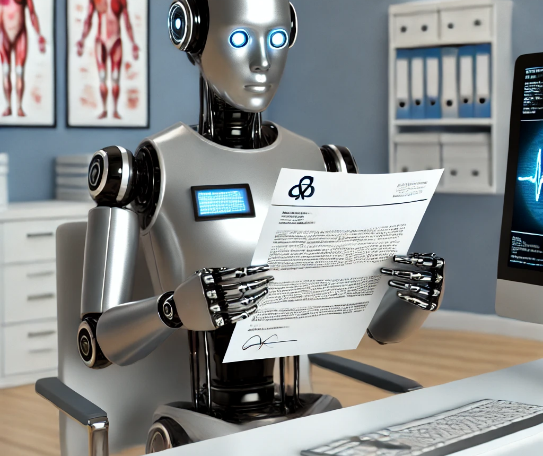
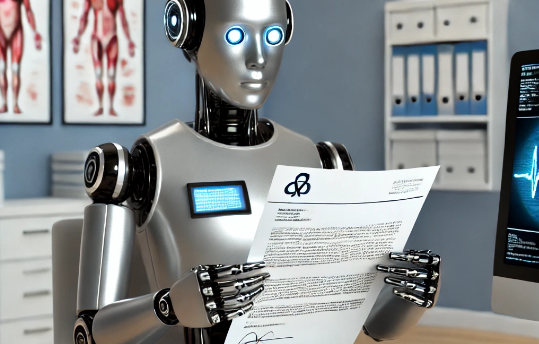
Fix use case images

diff --git a/postmaster.html b/postmaster.html
@@ -47,16 +47,18 @@
                 <div class="page-hero-content">
                     <span class="section-badge">Synapse Postmaster</span>
                     <h1>Turn Mails into<br><span class="gradient-text">Actionable Data</span></h1>
-                    <p class="hero-subtitle">Every time you receive an email, it costs you 1€+ just to route it to the right person. Synapse Postmaster is an AI-powered solution that bridges the gap between incoming communications and digital processes.</p>
+                    <p class="highlight-lead">Every time you receive an email, it costs you <strong>1€+</strong>...</p>
+                    <p class="highlight-emphasis">...just to route it to the right person.</p>
+                    <p class="hero-subtitle">Synapse Postmaster is an AI-powered solution that bridges the gap between incoming communications and digital processes.</p>
                     <a href="index.html#contact" class="btn btn-primary btn-large">Book a Demo</a>
                     <div class="hero-stats">
                         <div class="stat">
-                            <span class="stat-number">90%</span>
+                            <span class="stat-number">95%</span>
                             <span class="stat-label">Accuracy</span>
                         </div>
                         <div class="stat-divider"></div>
                         <div class="stat">
-                            <span class="stat-number">50%</span>
+                            <span class="stat-number">75%</span>
                             <span class="stat-label">Time Saved</span>
                         </div>
                         <div class="stat-divider"></div>
@@ -141,19 +143,35 @@
                 </div>
                 <div class="overview-content">
                     <h3>From Reading to Decision-Making</h3>
-                    <p class="lead">Postmaster doesn't just read documents - it understands context, applies business rules, and triggers the right actions automatically.</p>
-                    <div class="feature-list">
-                        <div class="feature-item">
-                            <svg width="24" height="24" viewBox="0 0 24 24" fill="none" stroke="currentColor" stroke-width="2"><polyline points="20 6 9 17 4 12"/></svg>
-                            <span>Risk policy evaluation</span>
+                    <p class="lead">Postmaster goes beyond simple document reading : it interprets context, applies business rules, and automatically initiates the right actions.</p>
+                    <div class="process-steps">
+                        <div class="process-step">
+                            <div class="step-header">
+                                <span class="step-number">1</span>
+                                <h4>Read</h4>
+                            </div>
+                            <p>Processes scanned images, PDFs, structured and unstructured documents, handwriting, tables, and even lengthy reports.</p>
                         </div>
-                        <div class="feature-item">
-                            <svg width="24" height="24" viewBox="0 0 24 24" fill="none" stroke="currentColor" stroke-width="2"><polyline points="20 6 9 17 4 12"/></svg>
-                            <span>Fraud detection alerts</span>
+                        <div class="process-step">
+                            <div class="step-header">
+                                <span class="step-number">2</span>
+                                <h4>Understand</h4>
+                            </div>
+                            <p>Uses AI to interpret meaning, summarize content, classify document types, extract key information from unstructured text, and correct inconsistencies.</p>
                         </div>
-                        <div class="feature-item">
-                            <svg width="24" height="24" viewBox="0 0 24 24" fill="none" stroke="currentColor" stroke-width="2"><polyline points="20 6 9 17 4 12"/></svg>
-                            <span>Workflow initiation</span>
+                        <div class="process-step">
+                            <div class="step-header">
+                                <span class="step-number">3</span>
+                                <h4>Gather Context</h4>
+                            </div>
+                            <p>Enhances understanding by connecting to back-office systems, CRMs, and ERPs to retrieve additional details such as customer or contract information and calculate routing.</p>
+                        </div>
+                        <div class="process-step">
+                            <div class="step-header">
+                                <span class="step-number">4</span>
+                                <h4>Make decision</h4>
+                            </div>
+                            <p>Determines the correct action to take and initiates it automatically.</p>
                         </div>
                     </div>
                 </div>
@@ -174,7 +192,7 @@
                     <div class="tech-icon">
                         <svg width="48" height="48" viewBox="0 0 24 24" fill="none" stroke="currentColor" stroke-width="1.5"><circle cx="12" cy="12" r="3"/><path d="M19.4 15a1.65 1.65 0 0 0 .33 1.82l.06.06a2 2 0 0 1 0 2.83 2 2 0 0 1-2.83 0l-.06-.06a1.65 1.65 0 0 0-1.82-.33 1.65 1.65 0 0 0-1 1.51V21a2 2 0 0 1-2 2 2 2 0 0 1-2-2v-.09A1.65 1.65 0 0 0 9 19.4a1.65 1.65 0 0 0-1.82.33l-.06.06a2 2 0 0 1-2.83 0 2 2 0 0 1 0-2.83l.06-.06a1.65 1.65 0 0 0 .33-1.82 1.65 1.65 0 0 0-1.51-1H3a2 2 0 0 1-2-2 2 2 0 0 1 2-2h.09A1.65 1.65 0 0 0 4.6 9a1.65 1.65 0 0 0-.33-1.82l-.06-.06a2 2 0 0 1 0-2.83 2 2 0 0 1 2.83 0l.06.06a1.65 1.65 0 0 0 1.82.33H9a1.65 1.65 0 0 0 1-1.51V3a2 2 0 0 1 2-2 2 2 0 0 1 2 2v.09a1.65 1.65 0 0 0 1 1.51 1.65 1.65 0 0 0 1.82-.33l.06-.06a2 2 0 0 1 2.83 0 2 2 0 0 1 0 2.83l-.06.06a1.65 1.65 0 0 0-.33 1.82V9a1.65 1.65 0 0 0 1.51 1H21a2 2 0 0 1 2 2 2 2 0 0 1-2 2h-.09a1.65 1.65 0 0 0-1.51 1z"/></svg>
                     </div>
-                    <h3>Symbolic Model</h3>
+                    <h3>Symbolic Models</h3>
                     <p>The strategic coordinator that drives your business forward by intelligently processing data and making informed decisions. It applies logical rules to facts and data to derive conclusions.</p>
                 </div>
                 <div class="tech-card">
@@ -320,14 +338,7 @@
                         <svg width="32" height="32" viewBox="0 0 24 24" fill="none" stroke="currentColor" stroke-width="2"><path d="M22 11.08V12a10 10 0 1 1-5.93-9.14"/><polyline points="22 4 12 14.01 9 11.01"/></svg>
                     </div>
                     <h3>No Hallucinations</h3>
-                    <p>Inference Engines avoid the hallucination problems common with LLMs, providing reliable and accurate outputs.</p>
-                </div>
-                <div class="benefit-card">
-                    <div class="benefit-icon">
-                        <svg width="32" height="32" viewBox="0 0 24 24" fill="none" stroke="currentColor" stroke-width="2"><line x1="12" y1="1" x2="12" y2="23"/><path d="M17 5H9.5a3.5 3.5 0 0 0 0 7h5a3.5 3.5 0 0 1 0 7H6"/></svg>
-                    </div>
-                    <h3>Cost-Effective</h3>
-                    <p>Predefined rules are more economical than expensive LLM computation for routine processing tasks.</p>
+                    <p>Symbolic AIs avoid the hallucination problems common with LLMs, providing reliable and accurate outputs.</p>
                 </div>
                 <div class="benefit-card">
                     <div class="benefit-icon">
@@ -338,17 +349,24 @@
                 </div>
                 <div class="benefit-card">
                     <div class="benefit-icon">
-                        <svg width="32" height="32" viewBox="0 0 24 24" fill="none" stroke="currentColor" stroke-width="2"><rect x="3" y="3" width="18" height="18" rx="2" ry="2"/><line x1="3" y1="9" x2="21" y2="9"/><line x1="9" y1="21" x2="9" y2="9"/></svg>
+                        <svg width="32" height="32" viewBox="0 0 24 24" fill="none" stroke="currentColor" stroke-width="2"><line x1="12" y1="1" x2="12" y2="23"/><path d="M17 5H9.5a3.5 3.5 0 0 0 0 7h5a3.5 3.5 0 0 1 0 7H6"/></svg>
                     </div>
-                    <h3>Handles Unstructured Data</h3>
-                    <p>Process information that was previously incomprehensible to legacy systems.</p>
+                    <h3>Cost-Effective</h3>
+                    <p>Predefined rules are more economical than expensive LLM computation for routine processing tasks.</p>
                 </div>
                 <div class="benefit-card">
                     <div class="benefit-icon">
                         <svg width="32" height="32" viewBox="0 0 24 24" fill="none" stroke="currentColor" stroke-width="2"><polyline points="22 12 18 12 15 21 9 3 6 12 2 12"/></svg>
                     </div>
                     <h3>Workflow Automation</h3>
-                    <p>Automate entire workflows from email requests to CRM recording seamlessly.</p>
+                    <p>Automate entire workflows from multi-channel incoming requests to Digital Processes seamlessly.</p>
+                </div>
+                 <div class="benefit-card">
+                    <div class="benefit-icon">
+                        <svg width="32" height="32" viewBox="0 0 24 24" fill="none" stroke="currentColor" stroke-width="2"><rect x="3" y="3" width="18" height="18" rx="2" ry="2"/><line x1="3" y1="9" x2="21" y2="9"/><line x1="9" y1="21" x2="9" y2="9"/></svg>
+                    </div>
+                    <h3>Handles Unstructured Data</h3>
+                    <p>Process information that was previously incomprehensible to legacy systems.</p>
                 </div>
                 <div class="benefit-card">
                     <div class="benefit-icon">

diff --git a/index.html b/index.html
@@ -73,6 +73,26 @@
         </div>
     </section>
 
+    <!-- Flagship Solution Section -->
+    <section id="postmaster" class="product-highlight">
+        <div class="container">
+            <div class="product-highlight-content">
+                <div class="product-highlight-text">
+                    <span class="section-badge">Our Flagship Solution</span>
+                    <h2>Synapse Postmaster</h2>
+                    <p class="highlight-lead">Every time you receive an email, it costs you <strong>1€+</strong>...</p>
+                    <p class="highlight-emphasis">...just to route it to the right person.</p>
+                    <p>Synapse Postmaster is an AI-driven platform that transforms physical mail and email into structured, actionable data, seamlessly connecting incoming communications with digital workflows.</p>
+                    <p>Postmaster does more than extract text — it understands context, interprets business rules, and automatically initiates the correct next steps. It takes care of the tedious, time-consuming tasks so your team can stay focused on what truly matters.</p>
+                    <a href="postmaster.html" class="btn btn-primary">Learn More</a>
+                </div>
+                <div class="product-highlight-image">
+                    <img src="images/index/hero.png" alt="Synapse Postmaster">
+                </div>
+            </div>
+        </div>
+    </section>
+
     <!-- About Section -->
     <section id="about" class="about">
         <div class="container">
@@ -99,26 +119,6 @@
                 </div>
                 <div class="about-visual">
                     <img src="images/index/turn-ideas.jpg" alt="Turn ideas into reality" class="about-image">
-                </div>
-            </div>
-        </div>
-    </section>
-
-    <!-- Flagship Solution Section -->
-    <section id="postmaster" class="product-highlight">
-        <div class="container">
-            <div class="product-highlight-content">
-                <div class="product-highlight-text">
-                    <span class="section-badge">Our Flagship Solution</span>
-                    <h2>Synapse Postmaster</h2>
-                    <p class="highlight-lead">Every time you receive an email, it costs you <strong>1€+</strong>...</p>
-                    <p class="highlight-emphasis">...just to route it to the right person.</p>
-                    <p>Synapse Postmaster is an AI-driven platform that transforms physical mail and email into structured, actionable data, seamlessly connecting incoming communications with digital workflows.</p>
-                    <p>Postmaster does more than extract text — it understands context, interprets business rules, and automatically initiates the correct next steps. It takes care of the tedious, time-consuming tasks so your team can stay focused on what truly matters.</p>
-                    <a href="postmaster.html" class="btn btn-primary">Learn More</a>
-                </div>
-                <div class="product-highlight-image">
-                    <img src="images/index/hero.png" alt="Synapse Postmaster">
                 </div>
             </div>
         </div>

diff --git a/styles.css b/styles.css
@@ -1275,6 +1275,28 @@ button, input, textarea {
     text-align: left;
 }
 
+.page-hero-content .highlight-lead {
+    font-size: 1.375rem;
+    color: var(--gray-700);
+    margin-bottom: 0.25rem;
+}
+
+.page-hero-content .highlight-lead strong {
+    color: var(--primary);
+    font-weight: 700;
+}
+
+.page-hero-content .highlight-emphasis {
+    font-size: 1.375rem;
+    font-weight: 600;
+    color: var(--gray-900);
+    margin-bottom: 1rem;
+}
+
+.page-hero-content .hero-subtitle {
+    font-size: 1.125rem;
+}
+
 .page-hero-image {
     text-align: center;
 }
@@ -1343,6 +1365,54 @@ button, input, textarea {
 .feature-item svg {
     color: var(--success);
     flex-shrink: 0;
+}
+
+/* Process Steps */
+.process-steps {
+    display: flex;
+    flex-direction: column;
+    gap: 1.5rem;
+}
+
+.process-step {
+    display: flex;
+    flex-direction: column;
+    gap: 0.5rem;
+}
+
+.step-header {
+    display: flex;
+    align-items: center;
+    gap: 0.75rem;
+}
+
+.step-number {
+    display: flex;
+    align-items: center;
+    justify-content: center;
+    width: 28px;
+    height: 28px;
+    background: var(--gradient-primary);
+    color: var(--white);
+    font-size: 0.875rem;
+    font-weight: 600;
+    border-radius: 50%;
+    flex-shrink: 0;
+}
+
+.step-header h4 {
+    font-size: 1.125rem;
+    font-weight: 600;
+    color: var(--gray-900);
+    margin: 0;
+}
+
+.process-step > p {
+    color: var(--gray-600);
+    font-size: 0.9375rem;
+    line-height: 1.6;
+    margin: 0;
+    padding-left: 2.5rem;
 }
 
 .overview-visual {
@@ -1658,7 +1728,7 @@ button, input, textarea {
 }
 
 .process-visual img {
-    max-width: 100%;
+    max-width: 85%;
     height: auto;
     border-radius: var(--radius-xl);
     box-shadow: var(--shadow-lg);
